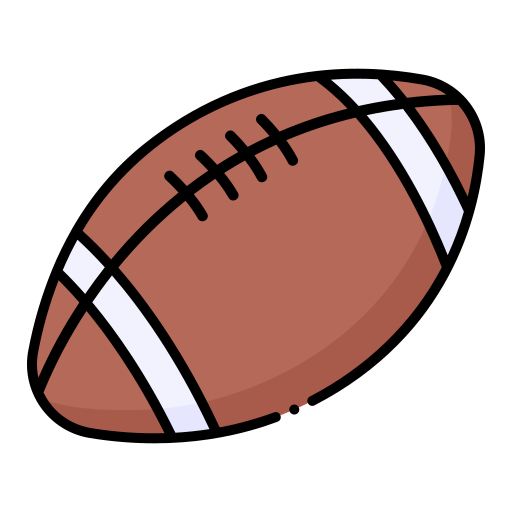
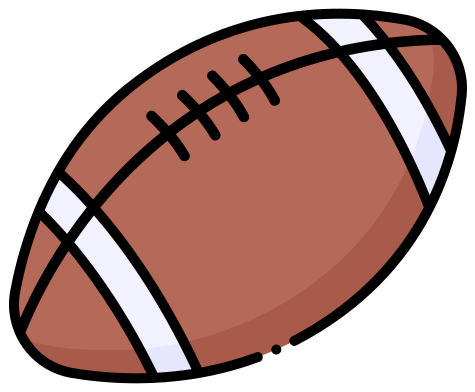
Make Groom Salute fullscreen with transparent stickers (build 19)
Drop the full-screen JACKPOT paint for a glowing word only, strip
black plates from sticker assets, and blast large stickers across
the viewport as the fireworks.

diff --git a/index.html b/index.html
@@ -58,28 +58,30 @@
         padding: 0.5rem 0.75rem 1.5rem;
         padding-bottom: calc(1.5rem + env(safe-area-inset-bottom, 0px));
       }
+      /* JACKPOT: word only — no full-screen paint; fireworks are the Groom Salute. */
       .page.flash::after {
         content: '★ ДЖЕКПОТ ★';
         position: fixed;
-        inset: 0;
-        display: flex;
-        align-items: center;
-        justify-content: center;
-        font-size: clamp(2rem, 10vw, 4rem);
+        left: 50%;
+        top: 42%;
+        transform: translate(-50%, -50%);
+        margin: 0;
+        padding: 0.15em 0.35em;
+        display: block;
+        font-size: clamp(2.6rem, 14vw, 5.5rem);
         font-weight: 900;
-        color: #000;
-        background: repeating-linear-gradient(
-          45deg,
-          var(--gold),
-          var(--gold) 20px,
-          var(--pink) 20px,
-          var(--pink) 40px,
-          var(--cyan) 40px,
-          var(--cyan) 60px
-        );
-        animation: flash-banner 0.85s steps(3) forwards;
-        z-index: 10;
+        letter-spacing: 0.04em;
+        color: var(--gold);
+        text-shadow:
+          0 0 0.08em #fff,
+          0 0 0.35em var(--pink),
+          0 0 0.7em var(--cyan),
+          0 3px 0 #1a0010;
+        background: none;
+        animation: flash-banner 1s ease-out forwards;
+        z-index: 12;
         pointer-events: none;
+        white-space: nowrap;
       }
       .sync-bar {
         width: min(100%, 27rem);
@@ -634,15 +636,21 @@
         height: 9px;
         animation: spark 0.85s ease-out forwards;
       }
-      /* Groom Salute sticker confetti (JACKPOT / spin-settle only). */
+      /* Groom Salute: big full-viewport stickers, transparent assets (no black plate). */
       .groom-sticker {
         position: absolute;
-        width: 2.6rem;
-        height: 2.6rem;
-        object-fit: cover;
-        border-radius: 0.35rem;
-        animation: groom-salute 1s ease-out forwards;
+        width: min(52vmin, 48vw);
+        height: min(52vmin, 48vw);
+        max-width: 18rem;
+        max-height: 18rem;
+        object-fit: contain;
+        background: transparent;
+        border: 0;
+        border-radius: 0;
+        box-shadow: none;
+        animation: groom-salute 1.15s ease-out forwards;
         will-change: transform, opacity;
+        z-index: 11;
       }
       @media (prefers-reduced-motion: reduce) {
         .groom-sticker {
@@ -682,12 +690,21 @@
         }
       }
       @keyframes flash-banner {
-        0%,
-        40% {
+        0% {
           opacity: 1;
+          transform: translate(-50%, -50%) scale(0.7);
+        }
+        25% {
+          opacity: 1;
+          transform: translate(-50%, -50%) scale(1.12);
+        }
+        70% {
+          opacity: 1;
+          transform: translate(-50%, -50%) scale(1);
         }
         100% {
           opacity: 0;
+          transform: translate(-50%, -50%) scale(1.05);
         }
       }
       @keyframes spark {
@@ -697,8 +714,16 @@
         }
       }
       @keyframes groom-salute {
+        0% {
+          transform: translate(-50%, -50%) scale(0.55) rotate(0deg);
+          opacity: 1;
+        }
+        20% {
+          opacity: 1;
+        }
         to {
-          transform: translate(var(--dx), var(--dy)) rotate(var(--rot, 0deg)) scale(0.35);
+          transform: translate(calc(-50% + var(--dx)), calc(-50% + var(--dy))) rotate(var(--rot, 0deg))
+            scale(1.05);
           opacity: 0;
         }
       }
@@ -801,7 +826,7 @@
       <footer class="footer">
         <p>Одна ссылка — одна игра на всех.</p>
         <div class="footer-tools">
-          <span id="buildTag">build 18</span>
+          <span id="buildTag">build 19</span>
           <button type="button" id="hardResetBtn">сброс кэша</button>
         </div>
       </footer>
@@ -943,11 +968,11 @@
         var SPIN_MS = 5600
         var BANDIT_MS = 2800
         var MIN_TURNS = 7
-        var GROOM_SALUTE_MS = 1000
+        var GROOM_SALUTE_MS = 1150
         var GROOM_STICKERS = [
           { id: 'football', src: 'assets/groom-salute/football.png' },
-          { id: 'zvyrk', src: 'assets/groom-salute/zvyrk-cat.jpg' },
-          { id: 'jesus', src: 'assets/groom-salute/jesus.jpg' },
+          { id: 'zvyrk', src: 'assets/groom-salute/zvyrk-cat.png' },
+          { id: 'jesus', src: 'assets/groom-salute/jesus.png' },
         ]
         var rotation = 0
         var spinning = false
@@ -1913,6 +1938,9 @@
             pack[i] = pack[j]
             pack[j] = tmp
           }
+          var vw = Math.max(window.innerWidth || 320, 320)
+          var vh = Math.max(window.innerHeight || 480, 480)
+          var reach = Math.max(vw, vh) * 0.55
           for (var s = 0; s < pack.length; s++) {
             var sticker = pack[s]
             var img = document.createElement('img')
@@ -1922,12 +1950,18 @@
             img.alt = ''
             img.setAttribute('aria-hidden', 'true')
             var ang = Math.random() * Math.PI * 2
-            var dist = 80 + Math.random() * 200
+            var dist = reach * (0.55 + Math.random() * 0.7)
             img.style.left = '50%'
-            img.style.top = '38%'
+            img.style.top = '45%'
             img.style.setProperty('--dx', Math.cos(ang) * dist + 'px')
             img.style.setProperty('--dy', Math.sin(ang) * dist + 'px')
             img.style.setProperty('--rot', Math.floor(Math.random() * 720 - 360) + 'deg')
+            // Slight size jitter so the fireworks fill the screen unevenly.
+            var size = 38 + Math.floor(Math.random() * 28) // 38–65 vmin-ish via inline
+            img.style.width = size + 'vmin'
+            img.style.height = size + 'vmin'
+            img.style.maxWidth = 'none'
+            img.style.maxHeight = 'none'
             els.fx.appendChild(img)
           }
           groomSaluteTimer = setTimeout(function () {
